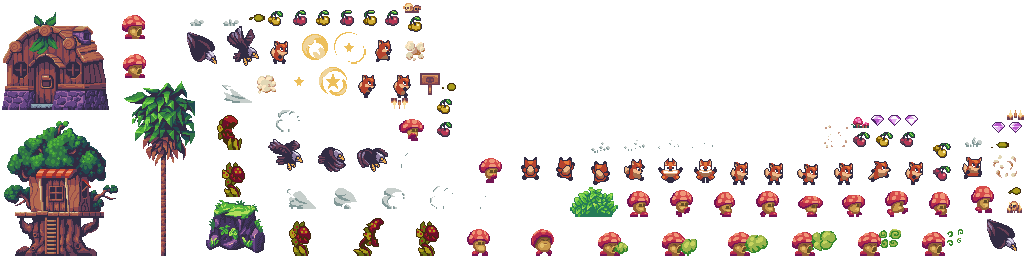
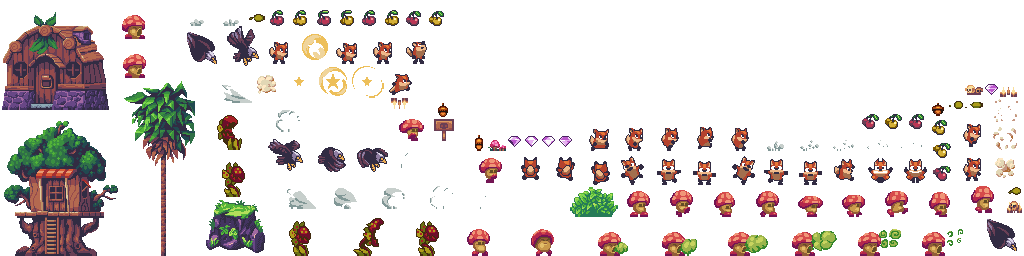
add trigger system (no functionality yet) and some animations for first cut scene

diff --git a/core/src/main/kotlin/io/github/quillraven/foxventure/screen/GameScreen.kt b/core/src/main/kotlin/io/github/quillraven/foxventure/screen/GameScreen.kt
@@ -48,6 +48,7 @@ import io.github.quillraven.foxventure.system.RenderSystem
 import io.github.quillraven.foxventure.system.SpawnSystem
 import io.github.quillraven.foxventure.system.StunSystem
 import io.github.quillraven.foxventure.system.TransitionType
+import io.github.quillraven.foxventure.system.TriggerSystem
 import io.github.quillraven.foxventure.system.UiRenderSystem
 import io.github.quillraven.foxventure.system.WanderSystem
 import io.github.quillraven.foxventure.tiled.LoadTileObjectListener
@@ -90,6 +91,7 @@ class GameScreen(
         systems {
             add(ControllerSystem())
             add(SpawnSystem())
+            add(TriggerSystem())
             add(activationSystem)
             add(PreInterpolationSystem()) // run it before any physics system runs (climb, aerial, ground)
             add(ProximityDetectorSystem())

diff --git a/core/src/main/kotlin/io/github/quillraven/foxventure/tiled/tiledService.kt b/core/src/main/kotlin/io/github/quillraven/foxventure/tiled/tiledService.kt
@@ -28,7 +28,7 @@ import ktx.tiled.y
 import kotlin.math.abs
 
 interface MapChangeListener {
-    fun onMapChanged(tiledMap: TiledMap)
+    fun onMapChanged(mapName:String, tiledMap: TiledMap)
 }
 
 interface LoadTileObjectListener {
@@ -76,7 +76,7 @@ class TiledService(fileHandleResolver: FileHandleResolver) : Disposable {
         loadObjects()
 
         // notify listeners
-        mapChangeListeners.forEach { it.onMapChanged(currentMap) }
+        mapChangeListeners.forEach { it.onMapChanged(mapName, currentMap) }
     }
 
     private fun loadGroundCollisionInfo() {

diff --git a/core/src/main/kotlin/io/github/quillraven/foxventure/system/TriggerSystem.kt b/core/src/main/kotlin/io/github/quillraven/foxventure/system/TriggerSystem.kt
@@ -1,0 +1,16 @@
+package io.github.quillraven.foxventure.system
+
+import com.badlogic.gdx.maps.tiled.TiledMap
+import com.github.quillraven.fleks.IntervalSystem
+import io.github.quillraven.foxventure.tiled.MapChangeListener
+import io.github.quillraven.foxventure.trigger.onTutorialMapLoad
+
+class TriggerSystem : IntervalSystem(enabled = false), MapChangeListener {
+    override fun onTick() = Unit
+
+    override fun onMapChanged(mapName: String, tiledMap: TiledMap) {
+        when (mapName) {
+            "tutorial.tmx" -> onTutorialMapLoad()
+        }
+    }
+}

diff --git a/core/src/main/kotlin/io/github/quillraven/foxventure/component/Animation.kt b/core/src/main/kotlin/io/github/quillraven/foxventure/component/Animation.kt
@@ -13,9 +13,9 @@ typealias GdxAnimation = com.badlogic.gdx.graphics.g2d.Animation<TextureRegion>
  * Animation types mapped to their atlas keys.
  */
 enum class AnimationType {
-    IDLE, RUN, JUMP, FALL, CLIMB, ATTACK, HURT;
+    IDLE, RUN, JUMP, FALL, CLIMB, ATTACK, HURT, DIZZY, LOOK_UP;
 
-    val atlasKey: String = name.lowercase()
+    val atlasKey: String = name.lowercase().replace("_", "-")
 
     companion object {
         fun byAtlasKey(key: String): AnimationType {

diff --git a/core/src/main/kotlin/io/github/quillraven/foxventure/trigger/tutorialTrigger.kt b/core/src/main/kotlin/io/github/quillraven/foxventure/trigger/tutorialTrigger.kt
@@ -1,0 +1,10 @@
+package io.github.quillraven.foxventure.trigger
+
+import com.github.quillraven.fleks.IntervalSystem
+import io.github.quillraven.foxventure.component.Controller
+import io.github.quillraven.foxventure.component.Player
+
+fun IntervalSystem.onTutorialMapLoad() {
+    val player = world.family { all(Player) }.single()
+    player.configure { it -= Controller }
+}

diff --git a/core/src/main/kotlin/io/github/quillraven/foxventure/system/CameraSystem.kt b/core/src/main/kotlin/io/github/quillraven/foxventure/system/CameraSystem.kt
@@ -55,7 +55,7 @@ class CameraSystem(
         camera.update()
     }
 
-    override fun onMapChanged(tiledMap: TiledMap) {
+    override fun onMapChanged(mapName: String, tiledMap: TiledMap) {
         // Instantly move the camera to focus entity when a map changes
         family.forEach { entity ->
             val (position, size) = entity[Transform]

diff --git a/core/src/main/kotlin/io/github/quillraven/foxventure/AudioService.kt b/core/src/main/kotlin/io/github/quillraven/foxventure/AudioService.kt
@@ -67,7 +67,7 @@ class AudioService : MapChangeListener, Disposable {
         }
     }
 
-    override fun onMapChanged(tiledMap: TiledMap) {
+    override fun onMapChanged(mapName: String, tiledMap: TiledMap) {
         val musicPath = tiledMap.property("music", "").substringAfterLast("/")
         if (musicPath.isBlank()) return
 

diff --git a/core/src/main/kotlin/io/github/quillraven/foxventure/system/ActivationSystem.kt b/core/src/main/kotlin/io/github/quillraven/foxventure/system/ActivationSystem.kt
@@ -147,7 +147,7 @@ class ActivationSystem(private val gameViewport: Viewport) : IteratingSystem(
         return chunk
     }
 
-    override fun onMapChanged(tiledMap: TiledMap) {
+    override fun onMapChanged(mapName: String, tiledMap: TiledMap) {
         chunks.clear()
         entityToChunk.clear()
 

diff --git a/core/src/main/kotlin/io/github/quillraven/foxventure/system/RenderSystem.kt b/core/src/main/kotlin/io/github/quillraven/foxventure/system/RenderSystem.kt
@@ -95,7 +95,7 @@ class RenderSystem(
         batch.color = prevColor
     }
 
-    override fun onMapChanged(tiledMap: TiledMap) {
+    override fun onMapChanged(mapName: String, tiledMap: TiledMap) {
         mapRenderer.map = tiledMap
 
         bgdLayers.clear()
